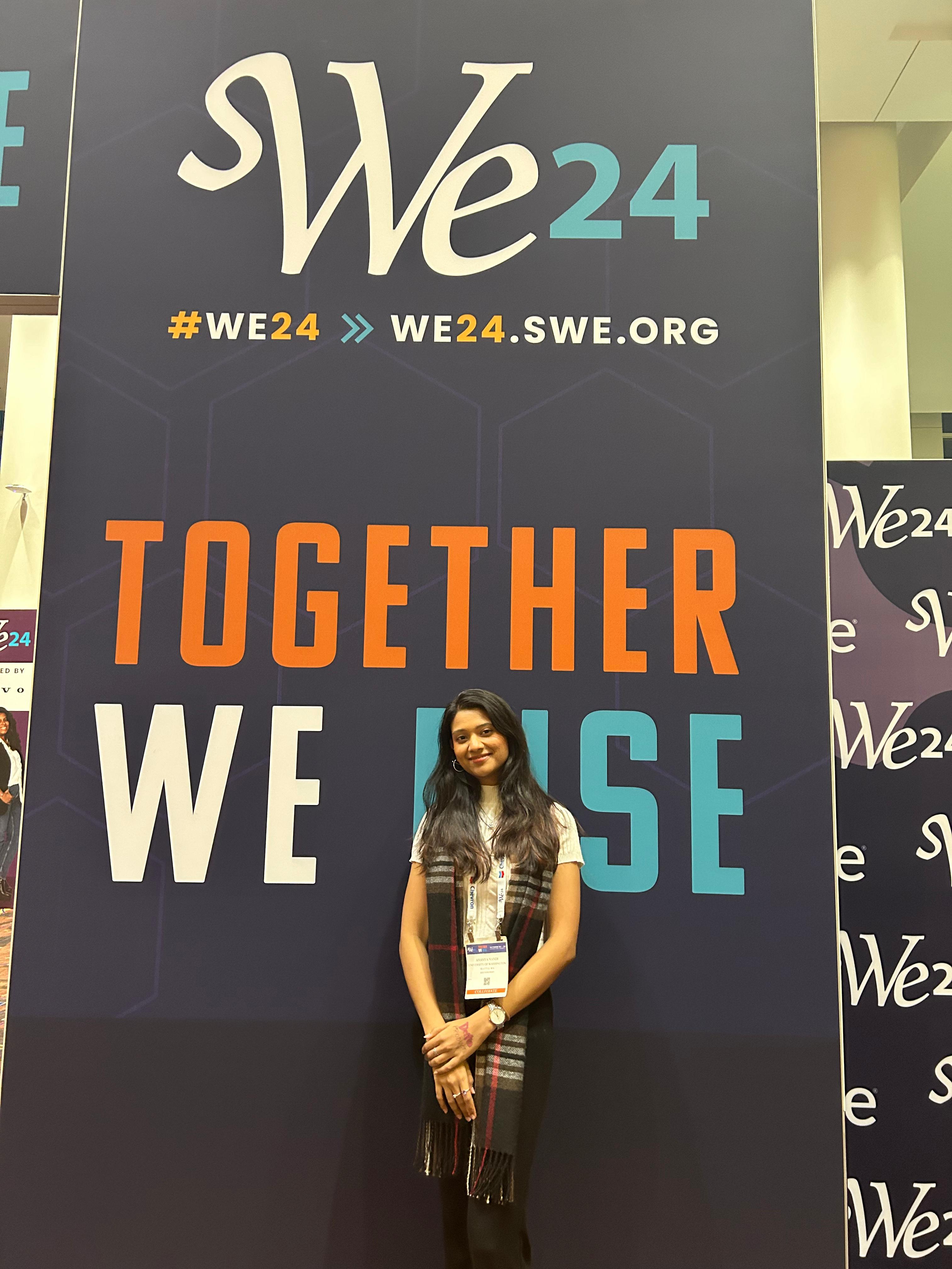
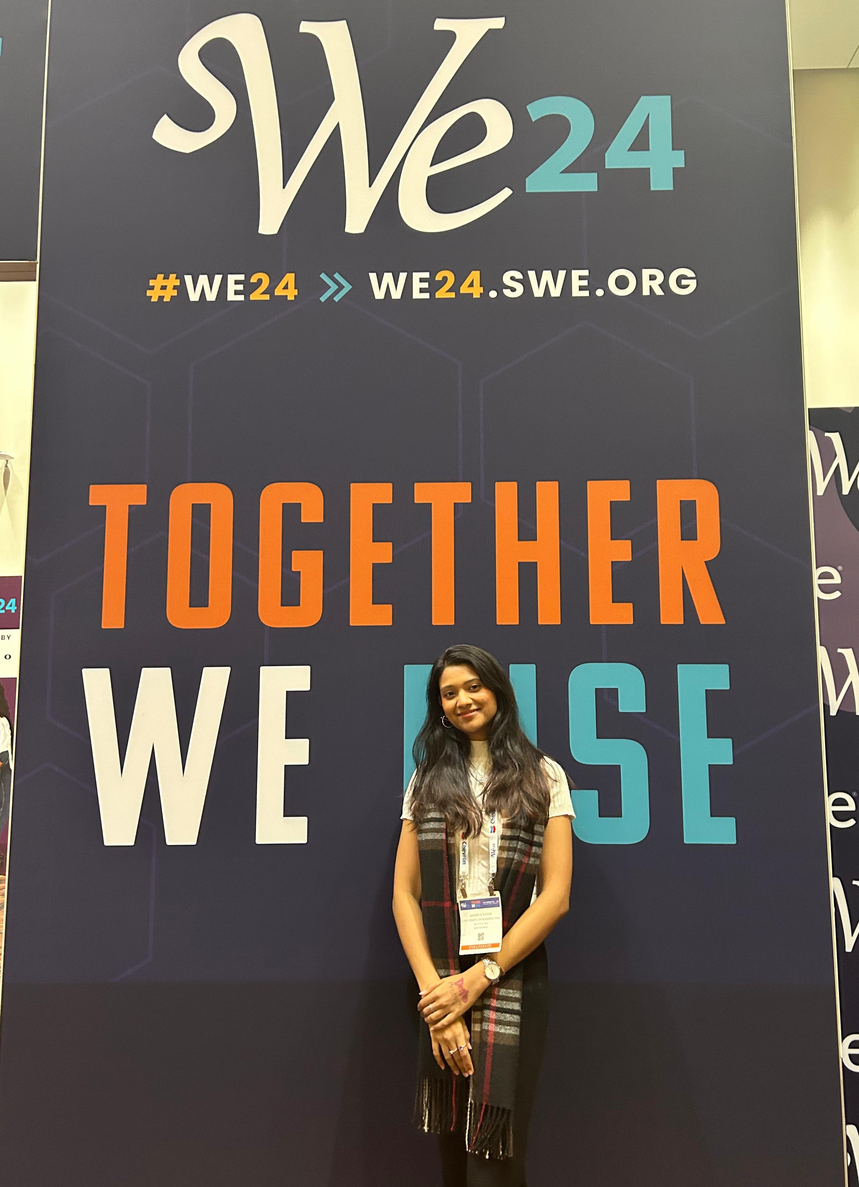
image sizes changes

diff --git a/index.md b/index.md
@@ -9,42 +9,42 @@ nav_order: 0
 
 ## *Discover the person behind the impactful products*
 
-| ![My_Picture](/engineered_by_ananya/assets/images/Cropped_Photo.jpg){: style="width: 400px; height: auto;" } | I'm a **Product Manager** with over two years of professional experience, delivering transformative outcomes across Sports, Fintech, E-Commerce, and Enterprise Solutions sectors. From building customized software solutions using machine learning to leading cross-functional teams, my work has created significant business impact and elevated user experiences. I was honoured with the Spotlight Award by NASSCOM for leading the development of an NFL® analytics web application, the first built on my company (Xoriant's) AI platform, unlocking dynamic use cases and predictive models. |
+| ![My_Picture](/engineered_by_ananya/assets/images/Cropped_Photo.jpg){: style="width: 600px; height: auto;" } | I'm a **Product Manager** with over two years of professional experience, delivering transformative outcomes across Sports, Fintech, E-Commerce, and Enterprise Solutions sectors. From building customized software solutions using machine learning to leading cross-functional teams, my work has created significant business impact and elevated user experiences. I was honoured with the Spotlight Award by NASSCOM for leading the development of an NFL® analytics web application, the first built on my company (Xoriant's) AI platform, unlocking dynamic use cases and predictive models. |
 
 >
 
 ## Back to School (Sept 2023 - June 2025)
 
-<div style="display: flex; align-items: center; gap: 20px; margin: 20px 0; flex-wrap: wrap;">
+<!-- <div style="display: flex; align-items: center; gap: 20px; margin: 20px 0; flex-wrap: wrap;">
   <div style="flex: 0 0 auto;">
-    <img src="/engineered_by_ananya/assets/images/my_pic_uw.jpg" alt="My Picture" style="width:400px; height: auto; border-radius: 4px; display: block;">
+    <img src="/engineered_by_ananya/assets/images/my_pic_uw.jpg" alt="My Picture" style="width: 200px; height: auto; display: block;">
   </div>
   <div style="flex: 1; font-size: 1rem; line-height: 1.6;">
     <p>
       I am pursuing a Master of Information Management at the <strong> University of Washington </strong>, where I'm exploring courses like Product Management and Strategy, Leadership, User Experience Design, Information Visualization, and Managerial Business Intelligence. This academic journey empowers me to bridge technical expertise with business strategy, enabling me to drive impactful product innovation and development at scale.
     </p>
   </div>
-</div>
+</div> -->
 
 
 <table>
 <tr>
 <td>
-I am pursuing a Master of Information Management at the University of Washington, where I'm exploring courses like Product Management and Strategy, Leadership, User Experience Design, Information Visualization, and Managerial Business Intelligence. This academic journey empowers me to bridge technical expertise with business strategy, enabling me to drive impactful product innovation and development at scale. 
+I am pursuing a Master of Information Management at the <strong> University of Washington </strong>, where I'm exploring courses like Product Management and Strategy, Leadership, User Experience Design, Information Visualization, and Managerial Business Intelligence. This academic journey empowers me to bridge technical expertise with business strategy, enabling me to drive impactful product innovation and development at scale. 
 </td>
 <td>
-<img src="/engineered_by_ananya/assets/images/my_pic_uw.jpg" alt="My Picture" style="width: 200px; height: auto; display: block;">
+<img src="/engineered_by_ananya/assets/images/my_pic_uw.jpg" alt="My Picture" style="width: 400px; height: auto; display: block;">
 </td>
 </tr>
 </table>
 
 <table style="width: 100%; border-collapse: collapse;">
   <tr>
-    <td style="width: 70%; padding: 10px; font-size: 2rem; line-height: 1.6;">
+    <td style="width: 70%; padding: 10px; font-size: 20px;">
       I am pursuing a Master of Information Management at the <strong>University of Washington</strong>, where I'm exploring courses like Product Management and Strategy, Leadership, User Experience Design, Information Visualization, and Managerial Business Intelligence. This academic journey empowers me to bridge technical expertise with business strategy, enabling me to drive impactful product innovation and development at scale.
     </td>
     <td style="width: 30%; text-align: center;">
-      <img src="/engineered_by_ananya/assets/images/my_pic_uw.jpg" alt="My Picture" style="width: 250px; height: auto; display: block; border-radius: 8px;">
+      <img src="/engineered_by_ananya/assets/images/my_pic_uw.jpg" alt="My Picture" style="width: 250px; height: auto; display: block;">
     </td>
   </tr>
 </table>
